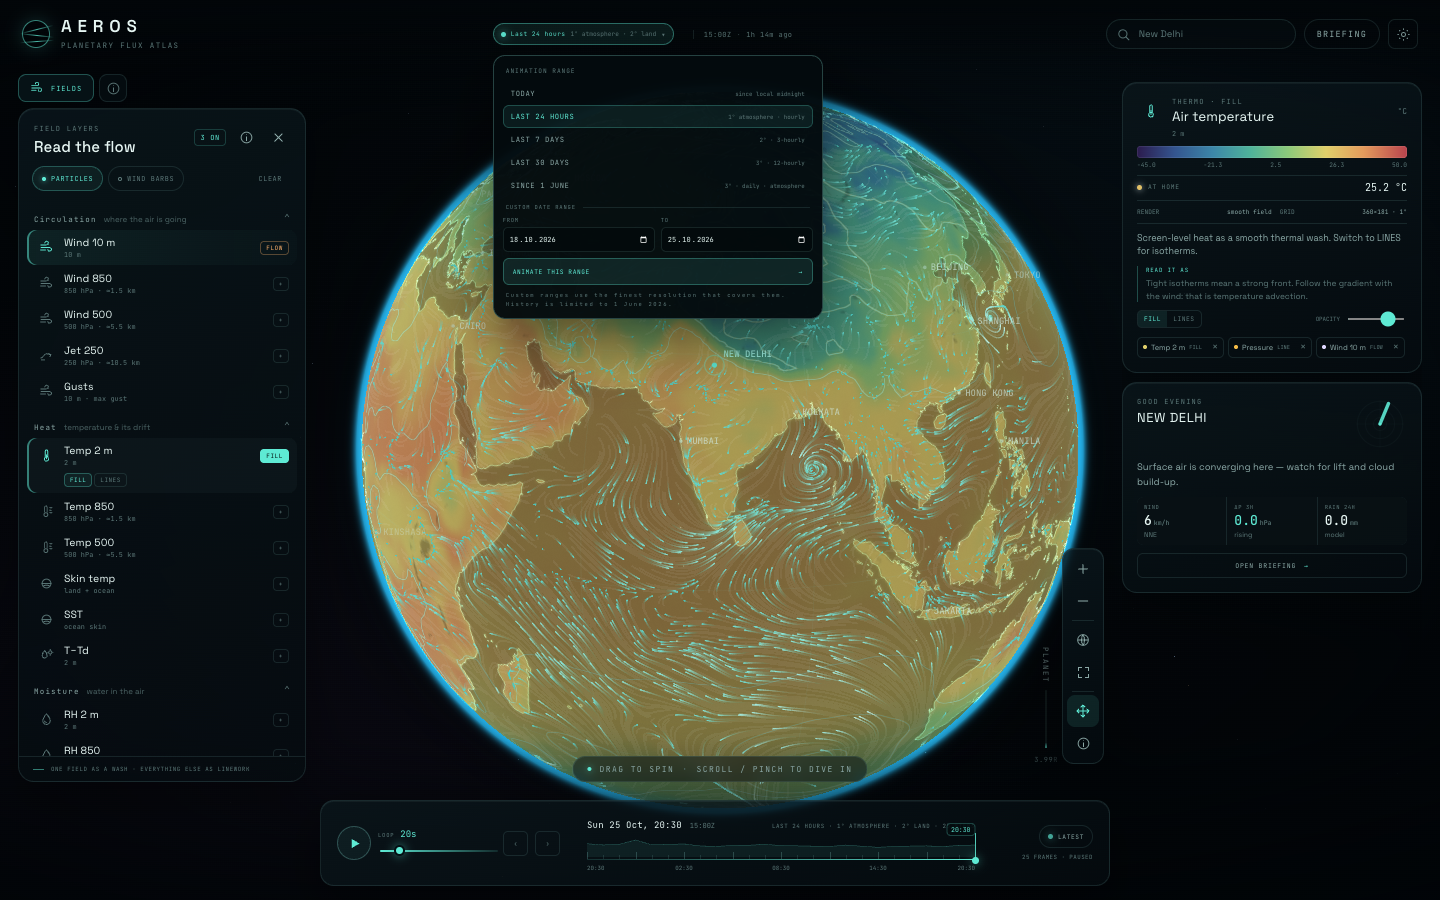
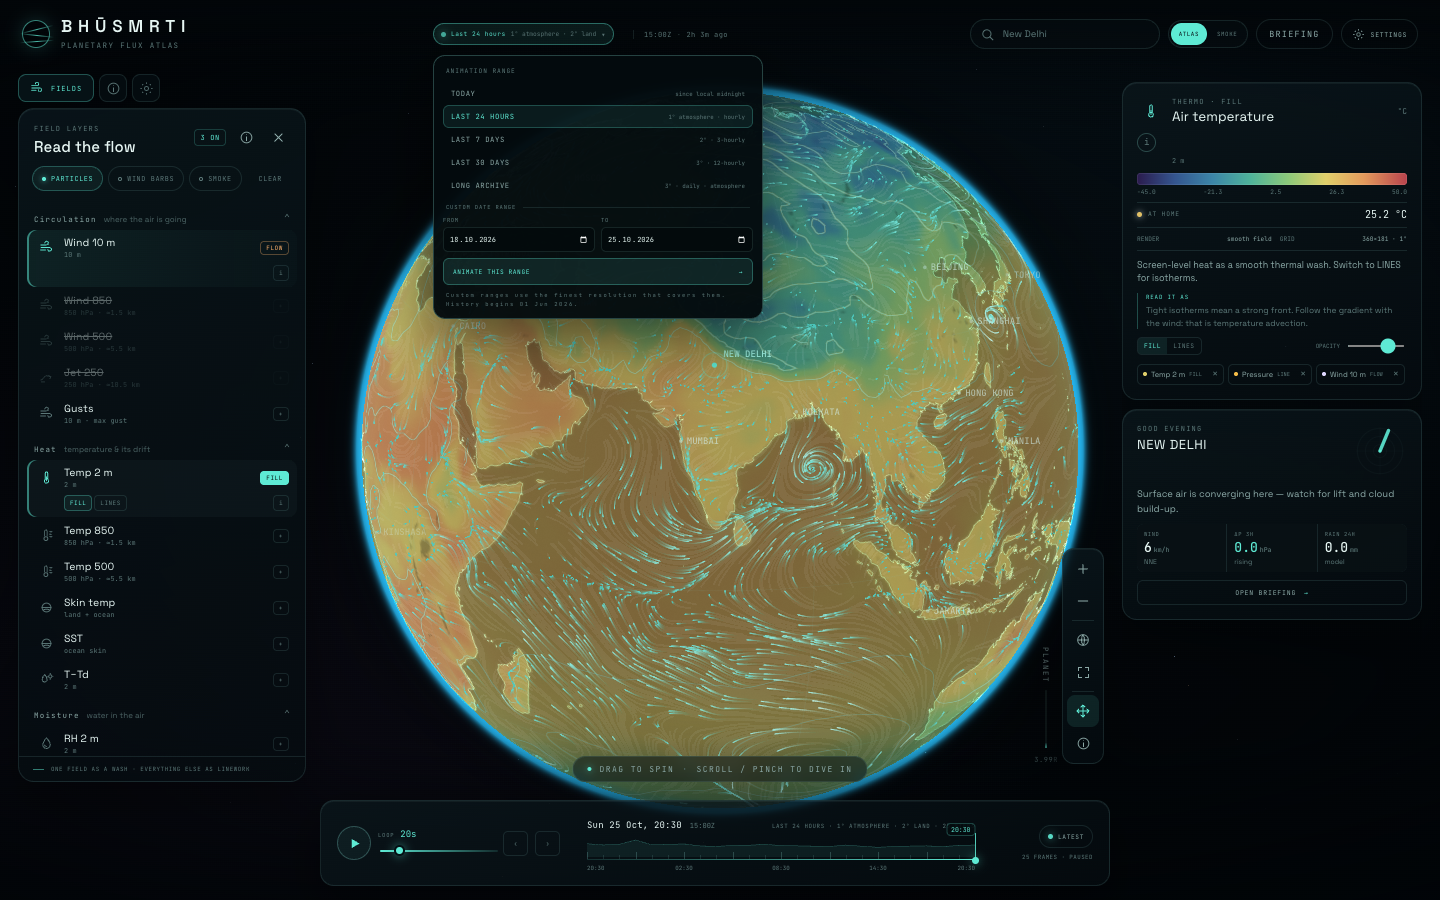
Bhūsmṛti: line-mode contours, notation locks, variable info, long archive, smoke view

diff --git a/src/globe/trails.ts b/src/globe/trails.ts
@@ -6,6 +6,7 @@ export type TrailSample = {
   vy: number;
   speed: number;
   color: number;
+  density?: number;
 };
 
 type Particle = { x: number; y: number; age: number; life: number };
@@ -32,6 +33,7 @@ export class WindTrails {
   private dpr = 1;
   private density = 1;
   private visible = true;
+  private smoke = false;
   private mobile = false;
   private cleared = true;
 
@@ -44,6 +46,14 @@ export class WindTrails {
     this.ctx = this.canvas.getContext('2d', { alpha: true })!;
     this.mobile = window.innerWidth < 760 || (navigator.hardwareConcurrency ?? 8) <= 4;
     this.resize(parent.clientWidth, parent.clientHeight, Math.min(devicePixelRatio, 1.75));
+  }
+
+  setSmoke(v: boolean) {
+    if (this.smoke === v) return;
+    this.smoke = v;
+    this.setDensity(this.density);
+    this.clear();
+    this.respawnAll();
   }
 
   setPalette(palette: Palette) {
@@ -63,7 +73,7 @@ export class WindTrails {
 
   setDensity(d: number) {
     this.density = d;
-    const n = Math.round((this.mobile ? 1300 : 3200) * d);
+    const n = Math.round((this.mobile ? 1300 : 3200) * d * (this.smoke ? 0.40 : 1));
     this.resizeParticles(Math.max(700, Math.min(7200, n)));
   }
 
@@ -127,12 +137,13 @@ export class WindTrails {
 
     // fade the existing trail
     ctx.globalCompositeOperation = 'destination-out';
-    ctx.fillStyle = `rgba(0,0,0,${FADE})`;
+    ctx.fillStyle = `rgba(0,0,0,${this.smoke ? 0.022 : FADE})`;
     ctx.fillRect(0, 0, this.width, this.height);
     ctx.globalCompositeOperation = 'source-over';
 
-    const paths = Array.from({ length: BINS }, () => new Path2D());
-    const used = new Uint8Array(BINS);
+    const DENS = this.smoke ? 4 : 1;
+    const paths = Array.from({ length: BINS }, () => Array.from({ length: DENS }, () => new Path2D()));
+    const used = new Uint8Array(BINS * DENS);
 
     for (const p of this.particles) {
       const s = this.sample(p.x, p.y);
@@ -147,10 +158,11 @@ export class WindTrails {
         continue;
       }
       const bin = Math.max(0, Math.min(BINS - 1, s.color));
-      const path = paths[bin];
+      const dens = this.smoke ? Math.min(DENS - 1, Math.floor(Math.max(0, Math.min(1, s.density ?? 0.5)) * DENS)) : 0;
+      const path = paths[bin][dens];
       path.moveTo(p.x, p.y);
       path.lineTo(nx, ny);
-      used[bin] = 1;
+      used[bin * DENS + dens] = 1;
       p.x = nx;
       p.y = ny;
       p.age += d;
@@ -164,13 +176,28 @@ export class WindTrails {
     ctx.clip();
     ctx.lineCap = 'round';
     ctx.lineJoin = 'round';
-    const lw = this.mobile ? 0.95 : 1.15;
-    ctx.lineWidth = lw;
-    for (let b = 0; b < BINS; b++) {
-      if (!used[b] || !this.colors[b]) continue;
-      ctx.strokeStyle = this.colors[b];
-      ctx.globalAlpha = 0.78;
-      ctx.stroke(paths[b]);
+    if (this.smoke) {
+      ctx.filter = 'blur(2.5px)';
+      for (let b = 0; b < BINS; b++) {
+        ctx.strokeStyle = this.colors[b] ?? 'rgb(180,230,255)';
+        for (let q = 0; q < DENS; q++) {
+          if (!used[b * DENS + q]) continue;
+          const path = paths[b][q];
+          ctx.lineWidth = 3.0 + q * 2.4;
+          ctx.globalAlpha = 0.012 + q * 0.014;
+          ctx.stroke(path);
+        }
+      }
+      ctx.filter = 'none';
+    } else {
+      const lw = this.mobile ? 0.95 : 1.15;
+      ctx.lineWidth = lw;
+      for (let b = 0; b < BINS; b++) {
+        if (!used[b] || !this.colors[b]) continue;
+        ctx.strokeStyle = this.colors[b];
+        ctx.globalAlpha = 0.78;
+        ctx.stroke(paths[b][0]);
+      }
     }
     ctx.globalAlpha = 1;
     ctx.restore();

diff --git a/src/components/LayerPanel.tsx b/src/components/LayerPanel.tsx
@@ -19,6 +19,8 @@ export function LayerPanel() {
   const setParticles = useAtmos((s) => s.setParticles);
   const setBarbs = useAtmos((s) => s.setBarbs);
   const setVarInfo = useAtmos((s) => s.setVarInfo);
+  const visualMode = useAtmos((s) => s.visualMode);
+  const setVisualMode = useAtmos((s) => s.setVisualMode);
   const [closed, setClosed] = useState<Record<string, boolean>>({});
   const data = useAtmos((s) => s.data);
   const DERIVED = new Set(['adv_temp', 'adv_moist', 'div10', 'ptend3', 'dtd']);
@@ -52,6 +54,9 @@ export function LayerPanel() {
         >
           <span className="qdot" /> WIND BARBS
         </button>
+        <button className={`quick ${visualMode === 'smoke' ? 'on' : ''}`} onClick={() => setVisualMode(visualMode === 'smoke' ? 'atlas' : 'smoke')} title="Toggle realistic wind-smoke view">
+          <span className="qdot" /> SMOKE
+        </button>
         <button className="quick ghost" onClick={clearOverlays}>CLEAR</button>
       </div>
 
@@ -59,6 +64,13 @@ export function LayerPanel() {
         <button className="barb-key" onClick={() => setPanel('info')}>
           <span>WIND BARBS</span> half = 5 kt · full = 10 kt · pennant = 50 kt <b>guide →</b>
         </button>
+      )}
+
+      {visualMode === 'smoke' && (
+        <div className="smoke-note">
+          <b>SMOKE VIEW</b>
+          Colour = temperature · density = pressure · motion = active wind level. Fill/line fields are suppressed.
+        </div>
       )}
 
       {data?.manifest.atmosphereOnly && (
@@ -85,15 +97,16 @@ export function LayerPanel() {
                 const isFlow = flow === l.id;
                 const active = isFill || isLine || isFlow;
                 const flowBlocked = l.kind === 'flow' && !!flow && flow !== l.id;
-                const ok = available(l) && !flowBlocked;
+                const smokeBlocked = visualMode === 'smoke' && l.kind !== 'flow';
+                const ok = available(l) && !flowBlocked && !smokeBlocked;
                 const fillBusy = !!fill && fill !== l.id;
                 return (
-                  <div key={l.id} className={`layer-item ${active ? 'active' : ''} ${selected === l.id ? 'selected' : ''} ${available(l) ? '' : 'unavailable'} ${flowBlocked ? 'blocked' : ''}`}>
+                  <div key={l.id} className={`layer-item ${active ? 'active' : ''} ${selected === l.id ? 'selected' : ''} ${available(l) ? '' : 'unavailable'} ${flowBlocked || smokeBlocked ? 'blocked' : ''}`}>
                     <button
                       className="layer-main"
                       onClick={() => { if (!ok) return; toggleLayer(l.id); setSelected(l.id); }}
                       disabled={!ok}
-                      title={flowBlocked ? `${l.label} — remove the active flow layer first` : available(l) ? `${l.label} — ${l.description}` : `${l.label} — not in the 5-month atmosphere archive`}
+                      title={flowBlocked ? `${l.label} — remove the active flow layer first` : smokeBlocked ? `${l.label} — switch to ATLAS to edit this layer` : available(l) ? `${l.label} — ${l.description}` : `${l.label} — not in the long atmosphere archive`}
                     >
                       <span className="layer-ic"><Icon name={l.glyph} size={15} /></span>
                       <span className="layer-txt">

diff --git a/src/globe/GlobeEngine.ts b/src/globe/GlobeEngine.ts
@@ -22,6 +22,7 @@ export type EngineState = {
   opacity: Record<string, number>;
   flowLayer: string | null;
   flowColor: FlowColor;
+  visualMode: 'atlas' | 'smoke';
   particles: boolean;
   density: number;
   barbs: boolean;
@@ -454,6 +455,11 @@ export class GlobeEngine {
     if (!prev || state.flowLayer !== prev.flowLayer || state.flowColor !== prev.flowColor || state.particles !== prev.particles || state.density !== prev.density) {
       this.syncFlow(state);
     }
+    if (!prev || state.visualMode !== prev.visualMode) {
+      this.trails.setSmoke(state.visualMode === 'smoke');
+      this.syncLayers(state);
+      this.syncFlow(state, true);
+    }
     if (!prev || state.home !== prev.home) {
       // overlay reads home from state each draw
     }
@@ -511,6 +517,7 @@ export class GlobeEngine {
         p.update(this.data!, this.derived!, this.frame);
       }
       p.setMode(s.mode, state.opacity[s.def.id] ?? s.def.defaultOpacity);
+      p.mesh.visible = state.visualMode !== 'smoke';
       p.mesh.renderOrder = 10 + i;
     });
     this.frameDirty = true;
@@ -579,7 +586,7 @@ export class GlobeEngine {
       color, colorRange, palette, speedRange: def.range,
       grid: { nx: g.nx, ny: g.ny, lonMin: g.lonMin, latMin: g.latMin, step: g.step },
     };
-    this.trails.setPalette(palette);
+    this.trails.setPalette(this.state?.visualMode === 'smoke' ? LAYER_BY_ID.temp2m.palette : palette);
   }
 
   private screenWind = (x: number, y: number): TrailSample | null => {
@@ -596,9 +603,21 @@ export class GlobeEngine {
     const el = Math.hypot(ex, ey) || 1, nl = Math.hypot(nx, ny) || 1;
     ex /= el; ey /= el; nx /= nl; ny /= nl;
     const z = Math.max(0, Math.min(1, (this.fullDistance - this.distance) / Math.max(0.01, this.fullDistance - this.minDistance)));
-    const scale = 3.3 + z * 3.2;
+    const scale = (this.state?.visualMode === 'smoke' ? 5.0 : 3.3) + z * 3.2;
     const vx = (w.u * ex + w.v * nx) * scale;
     const vy = (w.u * ey + w.v * ny) * scale;
+    if (this.state?.visualMode === 'smoke') {
+      const tIdx = Math.round(this.frame);
+      const temp = this.data.sample('temperature_2m', tIdx, hit.lon, hit.lat);
+      const pres = this.data.sample('pressure_msl', tIdx, hit.lon, hit.lat);
+      const color = Number.isFinite(temp)
+        ? Math.round(Math.max(0, Math.min(1, (temp + 45) / 95)) * 13)
+        : 6;
+      const density = Number.isFinite(pres)
+        ? Math.max(0.12, Math.min(1, (pres - 975) / 55))
+        : 0.5;
+      return { vx, vy, speed: w.speed, color, density };
+    }
     const cv = sampleGrid(this.flow.color, hit.lon, hit.lat, this.flow.grid);
     const t = Math.max(0, Math.min(1, (cv - this.flow.colorRange[0]) / Math.max(1e-6, this.flow.colorRange[1] - this.flow.colorRange[0])));
     return { vx, vy, speed: w.speed, color: Math.round(t * 13) };

diff --git a/src/components/Legend.tsx b/src/components/Legend.tsx
@@ -175,8 +175,44 @@ export function BriefCard() {
   );
 }
 
+export function SmokeLegend() {
+  const flow = useAtmos((s) => s.flowLayer);
+  const setMode = useAtmos((s) => s.setVisualMode);
+  const def = LAYER_BY_ID[flow ?? 'wind10'] ?? LAYER_BY_ID.wind10;
+  const temp = LAYER_BY_ID.temp2m;
+  return (
+    <div className="legend-card smoke-legend glass">
+      <div className="legend-head">
+        <span className="legend-ic"><Icon name="wind" size={16} /></span>
+        <div>
+          <div className="eyebrow">REALISTIC · SMOKE</div>
+          <div className="legend-title">Wind smoke</div>
+        </div>
+        <div className="legend-unit">live</div>
+      </div>
+      <div className="legend-sub">temperature colour · pressure density · wind velocity</div>
+      <p className="legend-desc">A soft, volumetric reading of the atmosphere. Warm air glows orange; dense high-pressure air smokes thicker; the active wind level sets the motion.</p>
+      <div className="smoke-ramps">
+        <div><span>TEMPERATURE</span><i style={{ background: paletteCssGradient(temp.palette) }} /></div>
+        <div><span>PRESSURE DENSITY</span><i className="pressure-ramp" /></div>
+      </div>
+      <div className="legend-meta">
+        <span>DRIVEN BY</span><b>{def.label}</b>
+        <span>SURFACE</span><b>temperature · MSLP</b>
+      </div>
+      <div className="smoke-key">
+        <span><i style={{ background: 'linear-gradient(90deg,#2b1b4d,#e39a5c)' }} /> colour</span>
+        <span><i style={{ background: 'linear-gradient(90deg,rgba(180,230,255,.15),rgba(180,230,255,.9))' }} /> density</span>
+        <span><i style={{ background: 'rgba(94,234,212,.65)' }} /> velocity</span>
+      </div>
+      <button className="brief-open" onClick={() => setMode('atlas')}>BACK TO ATLAS <span>→</span></button>
+    </div>
+  );
+}
+
 export function RightRail() {
   const panel = useAtmos((s) => s.panel);
+  const visualMode = useAtmos((s) => s.visualMode);
   if (panel === 'briefing' || panel === 'settings') return null;
-  return <aside className="right-rail"><LegendCard /><BriefCard /></aside>;
+  return <aside className="right-rail">{visualMode === 'smoke' ? <SmokeLegend /> : <LegendCard />}<BriefCard /></aside>;
 }

diff --git a/src/data/store.ts b/src/data/store.ts
@@ -11,6 +11,7 @@ import {
 export type Panel = 'layers' | 'briefing' | 'settings' | 'info' | null;
 export type WindUnit = 'kmh' | 'ms' | 'kt';
 export type FlowColor = 'speed' | 'temp' | 'advection';
+export type VisualMode = 'atlas' | 'smoke';
 
 export type Home = { lat: number; lon: number; name: string; country?: string };
 
@@ -53,6 +54,7 @@ type State = {
   opacity: Record<string, number>;
   particles: boolean;
   flowColor: FlowColor;
+  visualMode: VisualMode;
   barbs: boolean;
   labels: boolean;
   terminator: boolean;
@@ -89,6 +91,7 @@ type State = {
 
   setParticles: (v: boolean) => void;
   setFlowColor: (v: FlowColor) => void;
+  setVisualMode: (v: VisualMode) => void;
   setBarbs: (v: boolean) => void;
   setLabels: (v: boolean) => void;
   setTerminator: (v: boolean) => void;
@@ -129,7 +132,7 @@ export const useAtmos = create<State>((set, get) => ({
   rangeLoading: false, rangeProgress: 0, rangeError: null, rangeLoadingLabel: '',
   fillLayer: DEFAULT_LAYERS.fill, lineLayers: DEFAULT_LAYERS.lines, flowLayer: DEFAULT_LAYERS.flow,
   selected: DEFAULT_LAYERS.selected, opacity: defaultOpacity(),
-  particles: true, flowColor: 'speed', barbs: false, labels: true, terminator: true, grid: true,
+  particles: true, flowColor: 'speed', visualMode: 'atlas', barbs: false, labels: true, terminator: true, grid: true,
   density: 1, windUnit: 'kmh',
   home: storedHome(), locateState: 'idle', panel: typeof window !== 'undefined' && window.innerWidth >= 900 ? 'layers' : null, varInfo: null, probe: null, hoverEnabled: true,
   fly: null, resetToken: 0,
@@ -335,6 +338,7 @@ export const useAtmos = create<State>((set, get) => ({
 
   setParticles: (v) => set({ particles: v }),
   setFlowColor: (v) => set({ flowColor: v }),
+  setVisualMode: (v) => set({ visualMode: v }),
   setBarbs: (v) => set({ barbs: v }),
   setLabels: (v) => set({ labels: v }),
   setTerminator: (v) => set({ terminator: v }),

diff --git a/src/styles.css b/src/styles.css
@@ -743,3 +743,20 @@ html[data-contrast="high"] .ramp-ticks, html[data-contrast="high"] .layer-sub { 
 .layer-item.blocked .layer-name { text-decoration: line-through; }
 .layer-item.blocked .layer-main { cursor: not-allowed; }
 .layer-item.blocked .layer-badge { opacity: 0.4; }
+.mode-toggle { display: flex; align-items: center; border: 1px solid var(--line); border-radius: 999px; padding: 2px; gap: 2px; background: rgba(5,12,16,0.55); }
+.mode-toggle button { height: 22px; padding: 0 8px; border-radius: 999px; font-family: var(--mono); font-size: 5.8px; letter-spacing: 0.1em; color: var(--faint); }
+.mode-toggle button:hover { color: var(--ink); }
+.mode-toggle button.on { color: #041014; background: var(--accent); }
+.smoke-note { margin: 0 13px 8px; padding: 7px 8px; border: 1px solid rgba(94,234,212,0.2); border-radius: 6px; background: rgba(94,234,212,0.05); font-family: var(--mono); font-size: 5.8px; line-height: 1.6; color: var(--faint); }
+.smoke-note b { display: block; color: var(--accent); font-weight: 400; letter-spacing: 0.1em; }
+.smoke-legend .smoke-ramps { display: flex; flex-direction: column; gap: 7px; margin: 10px 0; }
+.smoke-ramps div { display: flex; flex-direction: column; gap: 3px; }
+.smoke-ramps span { font-family: var(--mono); font-size: 5.5px; letter-spacing: 0.12em; color: var(--faint); }
+.smoke-ramps i { display: block; height: 7px; border-radius: 3px; }
+.smoke-ramps .pressure-ramp { background: linear-gradient(90deg, rgba(150,215,235,0.06), rgba(180,235,255,0.9)); }
+.smoke-key { display: flex; gap: 10px; margin-top: 10px; font-family: var(--mono); font-size: 5.5px; color: var(--faint); }
+.smoke-key span { display: flex; align-items: center; gap: 4px; }
+.smoke-key i { width: 10px; height: 4px; border-radius: 2px; display: inline-block; }
+@media (max-width: 760px) {
+  .mode-toggle { display: none; }
+}

diff --git a/src/data/catalog.ts b/src/data/catalog.ts
@@ -198,7 +198,7 @@ export const LAYERS: LayerDef[] = [
     read: 'Dew point is conservative: a rising dew point means moist air is arriving, not just cooling.',
   },
   {
-    id: 'pw', label: 'Precipitable water', short: 'Precip water', sub: 'whole column · kg/m²', group: 'moisture', kind: 'scalar',
+    id: 'pw', label: 'Precipitable water', short: 'Precip water', sub: 'whole column', group: 'moisture', kind: 'scalar',
     unit: 'kg/m²', decimals: 1, palette: P.humidity, range: [0, 80], contour: 10,
     contourColor: 'rgba(170,240,255,0.3)', field: 'total_precipitable_water',
     defaultOpacity: 0.8, glyph: 'rh',

diff --git a/src/components/TopBar.tsx b/src/components/TopBar.tsx
@@ -3,6 +3,7 @@ import { useNow, ageLabel } from '../lib/useNow';
 import { Search } from './Search';
 import { GearIcon } from './Icon';
 import { RangeMenu } from './RangeMenu';
+import { ModeToggle } from './ModeToggle';
 
 export function TopBar() {
   const data = useAtmos((s) => s.data);
@@ -35,6 +36,7 @@ export function TopBar() {
 
       <div className="topbar-right">
         <Search />
+        <ModeToggle />
         <button className={`tbtn ${panel === 'briefing' ? 'on' : ''}`} onClick={() => setPanel(panel === 'briefing' ? null : 'briefing')}>
           BRIEFING
         </button>

diff --git a/src/components/ModeToggle.tsx b/src/components/ModeToggle.tsx
@@ -1,0 +1,12 @@
+import { useAtmos } from '../data/store';
+
+export function ModeToggle() {
+  const mode = useAtmos((s) => s.visualMode);
+  const setMode = useAtmos((s) => s.setVisualMode);
+  return (
+    <div className="mode-toggle" role="group" aria-label="Visual mode">
+      <button className={mode === 'atlas' ? 'on' : ''} onClick={() => setMode('atlas')} title="Conventional atlas notation">ATLAS</button>
+      <button className={mode === 'smoke' ? 'on' : ''} onClick={() => setMode('smoke')} title="Realistic wind smoke">SMOKE</button>
+    </div>
+  );
+}

diff --git a/README.md b/README.md
@@ -69,7 +69,7 @@ Manual refresh:
 npm run refresh
 ```
 
-Requirements: **Node 20+**, **Python 3 with numpy** (`pip3 install -r requirements.txt`). If `python3` does not have numpy, `scripts/refresh.sh` automatically looks for the bundled DSH runtime or set `Bhūsmṛti_PYTHON=/path/to/python3`.
+Requirements: **Node 20+**, **Python 3 with numpy** (`pip3 install -r requirements.txt`). If `python3` does not have numpy, `scripts/refresh.sh` automatically looks for the bundled DSH runtime or set `AEROS_PYTHON=/path/to/python3`.
 
 A cron alternative to the server:
 
@@ -93,6 +93,20 @@ A cron alternative to the server:
 - **Settings** — a near-full-screen control room: text size, interface size, high-contrast panels, streamline density/colour, wind barbs, labels, graticule, terminator, wind units, data refresh and credits.
 
 ![Morning briefing](docs/aeros-briefing.png)
+
+### Two visual languages
+
+**ATLAS** is the conventional notation — one colour wash, contour lines, vectors and barbs. **SMOKE** is the realistic mode: soft wind-driven puffs coloured by surface temperature, made denser by high mean-sea-level pressure, and moved by the active wind level. Toggle it in the top bar or from the FIELDS quick row.
+
+![Smoke view](docs/aeros-smoke.png)
+
+Notation is locked to keep it legible: one colour wash and one flow at a time. When a type is already occupied, its button is faded and struck through; you cannot accidentally create two fills or two flow layers. **LINES** is contour-only — constant zero regions no longer flood whole countries. CAPE and snow are clean isopleths now.
+
+![CAPE lines only](docs/aeros-cape-line.png)
+
+![Snow lines only](docs/aeros-snow-line.png)
+
+Every active/selected variable has a small **i** button (layer row, mode row, or legend) with a compact explanation. **PW** is now labelled **Precip water** and the popover explains that it is precipitable water — the total vapour in a column, in kg/m² — and why it matters.
 
 ### Time is a first-class control
 
